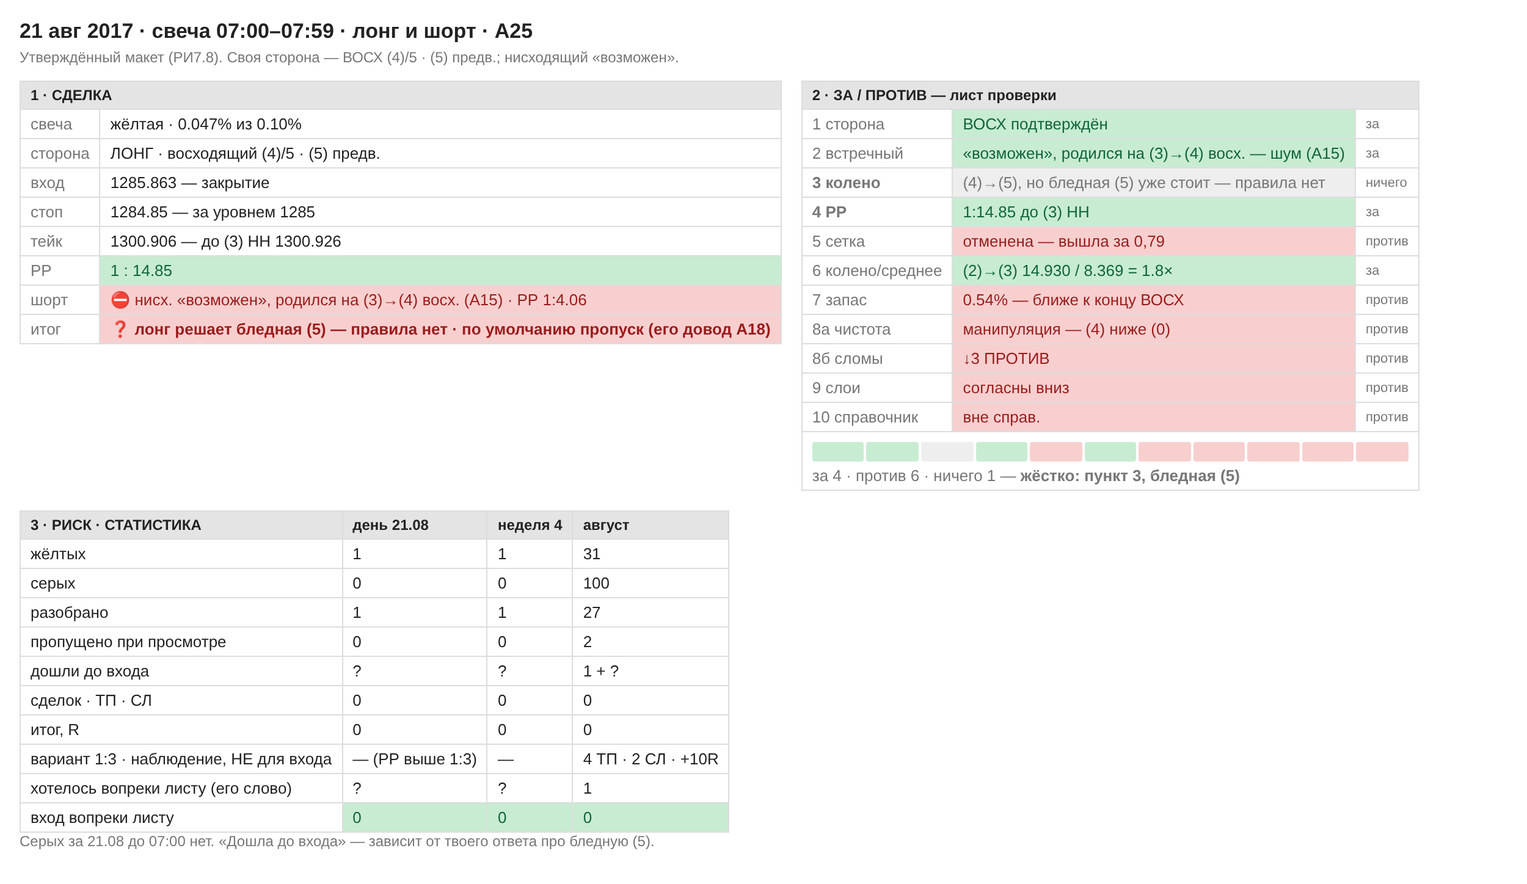
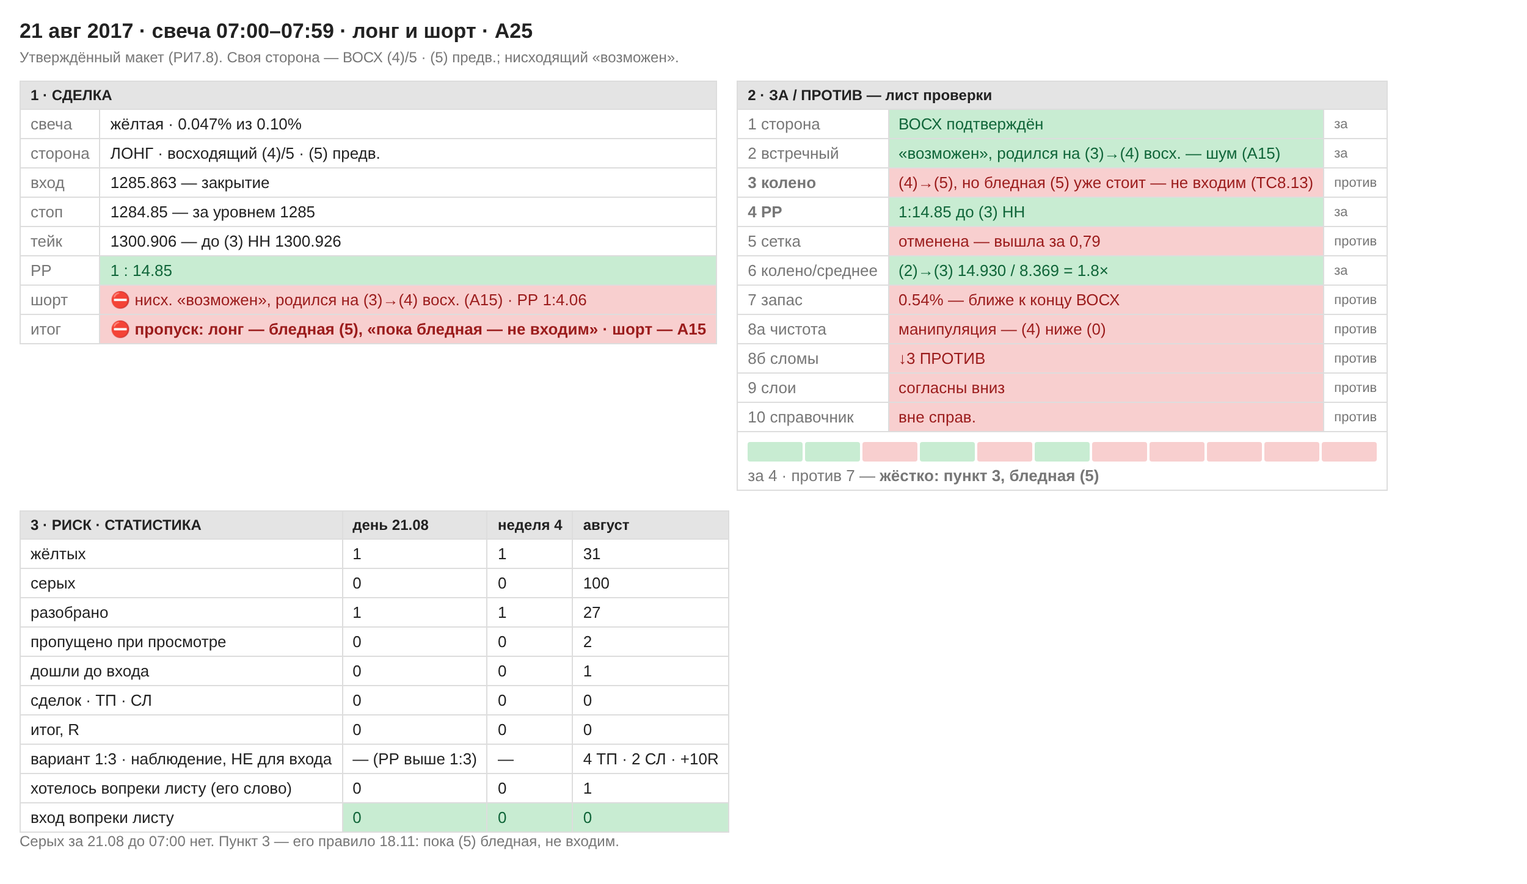
ТС8.13: пока (5) бледная — не входим, его слово; А25 пропуск, «хотелось» 0
Claude-Session: https://claude.ai/code/session_01TnuyYeu48W8E686G1zottP

Changed region(s): [[0.0936, 0.0932, 0.936, 0.5594], [0.156, 0.9323, 0.4368, 0.9634], [0.9048, 0.0932, 0.936, 0.1243]]

diff --git a/research/out/maket/2017-08-21_0700.html b/research/out/maket/2017-08-21_0700.html
@@ -6,4 +6,4 @@ table{border-collapse:collapse;min-width:360px}td,th{border:1px solid var(--ln);
 th{background:var(--h);font-size:12px}.blk td:first-child{color:var(--mut);white-space:nowrap}
 .g{background:var(--g);color:var(--gt)}.r{background:var(--r);color:var(--rt)}.n{background:var(--n);color:var(--mut)}
 .hard{font-weight:bold}.tag{font-size:11px;color:var(--mut)}
-.bar{display:flex;gap:2px;margin:4px 0}.bar span{flex:1;height:16px;border-radius:2px}</style></head><body><h1>21 авг 2017 · свеча 07:00–07:59 · лонг и шорт · А25</h1><p class="sub">Утверждённый макет (РИ7.8). Своя сторона — ВОСХ (4)/5 · (5) предв.; нисходящий «возможен».</p><div class="wrap"><table class="blk"><tr><th colspan="2">1 · СДЕЛКА</th></tr><tr><td>свеча</td><td class="">жёлтая · 0.047% из 0.10%</td></tr><tr><td>сторона</td><td class="">ЛОНГ · восходящий (4)/5 · (5) предв.</td></tr><tr><td>вход</td><td class="">1285.863 — закрытие</td></tr><tr><td>стоп</td><td class="">1284.85 — за уровнем 1285</td></tr><tr><td>тейк</td><td class="">1300.906 — до (3) HH 1300.926</td></tr><tr><td>РР</td><td class="g">1 : 14.85</td></tr><tr><td>шорт</td><td class="r">⛔ нисх. «возможен», родился на (3)→(4) восх. (А15) · РР 1:4.06</td></tr><tr><td>итог</td><td class="r hard">❓ лонг решает бледная (5) — правила нет · по умолчанию пропуск (его довод А18)</td></tr></table><table class="blk"><tr><th colspan="3">2 · ЗА / ПРОТИВ — лист проверки</th></tr><tr><td class="">1 сторона</td><td class="g">ВОСХ подтверждён</td><td class="tag">за</td></tr><tr><td class="">2 встречный</td><td class="g">«возможен», родился на (3)→(4) восх. — шум (А15)</td><td class="tag">за</td></tr><tr><td class="hard">3 колено</td><td class="n">(4)→(5), но бледная (5) уже стоит — правила нет</td><td class="tag">ничего</td></tr><tr><td class="hard">4 РР</td><td class="g">1:14.85 до (3) HH</td><td class="tag">за</td></tr><tr><td class="">5 сетка</td><td class="r">отменена — вышла за 0,79</td><td class="tag">против</td></tr><tr><td class="">6 колено/среднее</td><td class="g">(2)→(3) 14.930 / 8.369 = 1.8×</td><td class="tag">за</td></tr><tr><td class="">7 запас</td><td class="r">0.54% — ближе к концу ВОСХ</td><td class="tag">против</td></tr><tr><td class="">8а чистота</td><td class="r">манипуляция — (4) ниже (0)</td><td class="tag">против</td></tr><tr><td class="">8б сломы</td><td class="r">↓3 ПРОТИВ</td><td class="tag">против</td></tr><tr><td class="">9 слои</td><td class="r">согласны вниз</td><td class="tag">против</td></tr><tr><td class="">10 справочник</td><td class="r">вне справ.</td><td class="tag">против</td></tr><tr><td colspan="3"><div class="bar"><span class="g"></span><span class="g"></span><span class="n"></span><span class="g"></span><span class="r"></span><span class="g"></span><span class="r"></span><span class="r"></span><span class="r"></span><span class="r"></span><span class="r"></span></div>за 4 · против 6 · ничего 1 — <b>жёстко: пункт 3, бледная (5)</b></td></tr></table><table><tr><th>3 · РИСК · СТАТИСТИКА</th><th>день 21.08</th><th>неделя 4</th><th>август</th></tr><tr><td>жёлтых</td><td class="">1</td><td class="">1</td><td class="">31</td></tr><tr><td>серых</td><td class="">0</td><td class="">0</td><td class="">100</td></tr><tr><td>разобрано</td><td class="">1</td><td class="">1</td><td class="">27</td></tr><tr><td>пропущено при просмотре</td><td class="">0</td><td class="">0</td><td class="">2</td></tr><tr><td>дошли до входа</td><td class="">?</td><td class="">?</td><td class="">1 + ?</td></tr><tr><td>сделок · ТП · СЛ</td><td class="">0</td><td class="">0</td><td class="">0</td></tr><tr><td>итог, R</td><td class="">0</td><td class="">0</td><td class="">0</td></tr><tr><td>вариант 1:3 · наблюдение, НЕ для входа</td><td class="">— (РР выше 1:3)</td><td class="">—</td><td class="">4 ТП · 2 СЛ · +10R</td></tr><tr><td>хотелось вопреки листу (его слово)</td><td class="">?</td><td class="">?</td><td class="">1</td></tr><tr><td>вход вопреки листу</td><td class="g">0</td><td class="g">0</td><td class="g">0</td></tr></table></div><p class="sub">Серых за 21.08 до 07:00 нет. «Дошла до входа» — зависит от твоего ответа про бледную (5).</p></body></html>
+.bar{display:flex;gap:2px;margin:4px 0}.bar span{flex:1;height:16px;border-radius:2px}</style></head><body><h1>21 авг 2017 · свеча 07:00–07:59 · лонг и шорт · А25</h1><p class="sub">Утверждённый макет (РИ7.8). Своя сторона — ВОСХ (4)/5 · (5) предв.; нисходящий «возможен».</p><div class="wrap"><table class="blk"><tr><th colspan="2">1 · СДЕЛКА</th></tr><tr><td>свеча</td><td class="">жёлтая · 0.047% из 0.10%</td></tr><tr><td>сторона</td><td class="">ЛОНГ · восходящий (4)/5 · (5) предв.</td></tr><tr><td>вход</td><td class="">1285.863 — закрытие</td></tr><tr><td>стоп</td><td class="">1284.85 — за уровнем 1285</td></tr><tr><td>тейк</td><td class="">1300.906 — до (3) HH 1300.926</td></tr><tr><td>РР</td><td class="g">1 : 14.85</td></tr><tr><td>шорт</td><td class="r">⛔ нисх. «возможен», родился на (3)→(4) восх. (А15) · РР 1:4.06</td></tr><tr><td>итог</td><td class="r hard">⛔ пропуск: лонг — бледная (5), «пока бледная — не входим» · шорт — А15</td></tr></table><table class="blk"><tr><th colspan="3">2 · ЗА / ПРОТИВ — лист проверки</th></tr><tr><td class="">1 сторона</td><td class="g">ВОСХ подтверждён</td><td class="tag">за</td></tr><tr><td class="">2 встречный</td><td class="g">«возможен», родился на (3)→(4) восх. — шум (А15)</td><td class="tag">за</td></tr><tr><td class="hard">3 колено</td><td class="r">(4)→(5), но бледная (5) уже стоит — не входим (ТС8.13)</td><td class="tag">против</td></tr><tr><td class="hard">4 РР</td><td class="g">1:14.85 до (3) HH</td><td class="tag">за</td></tr><tr><td class="">5 сетка</td><td class="r">отменена — вышла за 0,79</td><td class="tag">против</td></tr><tr><td class="">6 колено/среднее</td><td class="g">(2)→(3) 14.930 / 8.369 = 1.8×</td><td class="tag">за</td></tr><tr><td class="">7 запас</td><td class="r">0.54% — ближе к концу ВОСХ</td><td class="tag">против</td></tr><tr><td class="">8а чистота</td><td class="r">манипуляция — (4) ниже (0)</td><td class="tag">против</td></tr><tr><td class="">8б сломы</td><td class="r">↓3 ПРОТИВ</td><td class="tag">против</td></tr><tr><td class="">9 слои</td><td class="r">согласны вниз</td><td class="tag">против</td></tr><tr><td class="">10 справочник</td><td class="r">вне справ.</td><td class="tag">против</td></tr><tr><td colspan="3"><div class="bar"><span class="g"></span><span class="g"></span><span class="r"></span><span class="g"></span><span class="r"></span><span class="g"></span><span class="r"></span><span class="r"></span><span class="r"></span><span class="r"></span><span class="r"></span></div>за 4 · против 7 — <b>жёстко: пункт 3, бледная (5)</b></td></tr></table><table><tr><th>3 · РИСК · СТАТИСТИКА</th><th>день 21.08</th><th>неделя 4</th><th>август</th></tr><tr><td>жёлтых</td><td class="">1</td><td class="">1</td><td class="">31</td></tr><tr><td>серых</td><td class="">0</td><td class="">0</td><td class="">100</td></tr><tr><td>разобрано</td><td class="">1</td><td class="">1</td><td class="">27</td></tr><tr><td>пропущено при просмотре</td><td class="">0</td><td class="">0</td><td class="">2</td></tr><tr><td>дошли до входа</td><td class="">0</td><td class="">0</td><td class="">1</td></tr><tr><td>сделок · ТП · СЛ</td><td class="">0</td><td class="">0</td><td class="">0</td></tr><tr><td>итог, R</td><td class="">0</td><td class="">0</td><td class="">0</td></tr><tr><td>вариант 1:3 · наблюдение, НЕ для входа</td><td class="">— (РР выше 1:3)</td><td class="">—</td><td class="">4 ТП · 2 СЛ · +10R</td></tr><tr><td>хотелось вопреки листу (его слово)</td><td class="">0</td><td class="">0</td><td class="">1</td></tr><tr><td>вход вопреки листу</td><td class="g">0</td><td class="g">0</td><td class="g">0</td></tr></table></div><p class="sub">Серых за 21.08 до 07:00 нет. Пункт 3 — его правило 18.11: пока (5) бледная, не входим.</p></body></html>

diff --git a/indicator/ТАБЛО-НА-СВЕЧЕ.md b/indicator/ТАБЛО-НА-СВЕЧЕ.md
@@ -37,7 +37,7 @@
 | 16 авг 07:00 | А22 | скрин | ВОСХ / **НИСХ** | (3) / **(0)** продолж. | ↑ чистый, ↓8 ПРОТИВ · ↓ чистый, ↓8 за | спорят | ↓ 0.04% | 3.023 / 6.839 | у ВОСХ колено мелкое — сетки нет | **шорт 1:3.08 ✅** | ⭐ **дошла до входа** · его решение — **пропуск** («в шорт не смог бы»); тянуло в лонг вопреки листу — остановил лист | шорт — **тейк** в 09:00 (упущено +3.08R) · лонг — **стоп** |
 | 17 авг 07:00 | А23 | скрин | **ВОСХ** / умер | **(5)** / — | ↑ манипуляция, ↑5 за, вне справ. | согласны (вверх) | 1.64% | 21.770 / 7.750 | ВОСХ `(4)→(5)`, 0.094 — между | лонг 1:3.34 | пропуск: счёт (5), сетка | лонг — **стоп** в 09:00, (5) уберёг 1R |
 | 18 авг 06:00 | А24 | скрин | **ВОСХ** / **НИСХ** | (2) / **(5)** | ↑ чистый, ↓2 ПРОТИВ · ↓ чистый, ↓2 за | согласны (вниз) | 0.21% (ближе к концу) | 8.208 / 7.450 (данные) | у НИСХ колено мелкое — сетки нет | лонг 1:1.71 · шорт 1:1.19 | пропуск: лонг — РР; шорт — (5), РР | лонг — тейк у вершины **взят** в 10:00 (и 1:3 тоже) |
-| 21 авг 07:00 | А25 | скрин | **ВОСХ** / возможен | (4)·**(5) предв.** / (1)·(2) предв. | ↑ манипуляция, ↓3 ПРОТИВ, вне справ. · ↓ чистый, ↓3 за | согласны (вниз) | 0.54% (ближе к концу) | 14.930 / 8.369 | ВОСХ `(2)→(3)`, отменена — вышла за 0,79 | **лонг 1:14.85** · шорт 1:4.06 | лонг — ❓ бледная (5), правила нет, по умолчанию пропуск; шорт — «возможен» на коррекции (А15) | — идёт |
+| 21 авг 07:00 | А25 | скрин | **ВОСХ** / возможен | (4)·**(5) предв.** / (1)·(2) предв. | ↑ манипуляция, ↓3 ПРОТИВ, вне справ. · ↓ чистый, ↓3 за | согласны (вниз) | 0.54% (ближе к концу) | 14.930 / 8.369 | ВОСХ `(2)→(3)`, отменена — вышла за 0,79 | **лонг 1:14.85** · шорт 1:4.06 | **пропуск**: лонг — бледная (5), его слово «пока бледная — не входим» (ТС8.13); шорт — «возможен» на коррекции (А15) | — идёт |
 
 ⚠ **8 авг 03:00 — табло на бар позади.** На закрытии свечи было уже
 **(2)** и **ВОСХ**; на графике он видел (1) и «возможен» — З77, починено в
@@ -269,7 +269,7 @@ v3.44 (на проверке).
 | 9 | слои согласны / спорят | `серия и уровни` | А6, А7, А19 |
 | 10 | справочник: в нём / вне | `посл-ть` | А7 |
 
-**Жёсткие — решают сами:** 0 свеча, 3 колено, 4 РР, 5 «между линиями»,
+**Жёсткие — решают сами:** 0 свеча, 3 колено (✅ **18.11, ТС8.13: бледная «(5) предв.» своей стороны = против, жёстко**), 4 РР, 5 «между линиями»,
 и **2, если «возможен» родился на коррекции основного** (А15). **Мягкие** —
 1, 6–10: доводы, голоса не считаются (ТС8.9).
 

diff --git a/indicator/КАК-ТОРГУЮ.md b/indicator/КАК-ТОРГУЮ.md
@@ -51,7 +51,7 @@
 | **А22** | 18.11.2026 | **16 августа 07:00** — шорт, скрин без слов | ⭐ **первая свеча, где все жёсткие пункты пройдены**: продолжение нисходящего (0), РР 1:3.08 · доводы 5:5 · решение его |
 | **А23** | 18.11.2026 | **17 августа 07:00** — лонг, скрин без слов | пропуск: восходящий на (5)/5 — «там сделок нет»; РР 1:3.34 при этом проходит |
 | **А24** | 18.11.2026 | **18 августа 06:00** — скрин без слов | пропуск обе стороны: лонг (2)→(3) — РР 1:1.71 до (1) 1289.462; шорт — нисходящий (5)/5 и РР 1:1.19 · В36: лонг 1:3, тейк 1291.15 |
-| **А25** | 18.11.2026 | **21 августа 07:00** — скрин без слов | лонг: РР 1:14.85 до (3) HH 1300.926, но бледная **(5) предв.** уже стоит — ❓ правила нет, по умолчанию пропуск · шорт: нисх. «возможен», родился на коррекции `(3)→(4)` восх. (А15) |
+| **А25** | 18.11.2026 | **21 августа 07:00** — скрин без слов | лонг: РР 1:14.85 до (3) HH 1300.926, но бледная **(5) предв.** уже стоит — ✅ **пропуск, его новое правило «пока бледная — не входим» (ТС8.13)** · шорт: нисх. «возможен», родился на коррекции `(3)→(4)` восх. (А15) |
 
 ---
 
@@ -3580,3 +3580,15 @@ HH 1300.926** (ТС8.10).
 
 **Макет:** `research/out/maket/2017-08-21_0700.png`. ❓ «Хотелось вопреки
 листу» — спрошено.
+
+**Ответ, 18.11.2026:**
+
+> «1. да, пока бледная — не входим так как показывает где потенциально
+> уже 5 счет а если перескочит мы этого не знаем и принимаем решение по
+> факту. 2. нет, желания не было»
+
+| | |
+|---|---|
+| пункт 3 | ✅ **НОВОЕ ПРАВИЛО — `ПРАВИЛА-ТРИГГЕР.md` ТС8.13:** пока (5) своей стороны бледная, не входим; перескочила — решаем по факту на следующей свече. В листе это пункт 3, жёстко |
+| вердикт | **пропуск** обе стороны. «Дошла до входа» — **нет**: жёсткий пункт 3 против |
+| «хотелось вопреки листу» | **0** |

diff --git a/indicator/ПРАВИЛА-ТРИГГЕР.md b/indicator/ПРАВИЛА-ТРИГГЕР.md
@@ -1216,6 +1216,22 @@ v3.30 умерла, перебрав на 88 токенов. Вылечили в
 
 Разбор — `КАК-ТОРГУЮ.md` **А12**.
 
+### ТС8.13 · ПОКА (5) БЛЕДНАЯ — НЕ ВХОДИМ. Его слово 18.11.2026
+
+> «да, пока бледная — не входим так как показывает где потенциально уже
+> 5 счет а если перескочит мы этого не знаем и принимаем решение по факту»
+
+| | |
+|---|---|
+| **правило** | если в счёте своей стороны стоит бледная **«(5) предв.»** (v3.44), сделки по этому тренду нет — как на сплошной (5), ТС8.12 |
+| **почему** | бледная показывает, где (5) **потенциально уже есть**. Устоит — колено `(4)→(5)` кончилось, «там сделок нет» |
+| **если перескочит** | цена ушла за бледную вершину, и (5) ещё не там — «этого мы не знаем», решение принимается **по факту**, на следующей свече (ТС8.11) |
+| **в листе** | пункт 3 «колено с учётом предв.» — жёсткий; бледная (5) на своей стороне = **против, жёстко** |
+| **история** | в А18 (11 авг 02:00) он назвал бледную (5) доводом против, но решил РР. Правилом стало в А25 (21 авг 07:00), где РР был 1:14.85 и решал именно этот пункт |
+| ❓ **не сказано** | бледные других номеров — «(3) предв.» и т.п. Его слово было про (5) |
+
+Разбор — `КАК-ТОРГУЮ.md` **А25**.
+
 ### ТС8.8 · ⛔ ЧЕГО ЭТОТ РАЗБОР НЕ ДАЁТ
 
 | | |

diff --git a/CLAUDE.md b/CLAUDE.md
@@ -535,6 +535,8 @@
   `(2)→(3)`, `(4)→(5)`, причём **`(2)→(3)` самый сильный**, остальные
   два «опасные, но тоже могут быть». **И зеркально** для нисходящего.
   **11.11.2026, А12, его словом: «последний счёт 5 — там нет сделок».**
+  **18.11.2026, А25: и пока (5) бледная «предв.» — тоже не входим**
+  (ТС8.13); перескочила — решение по факту.
   **12.11.2026, А15, его принцип:** «возможен» встречный, родившийся на
   коррекции `(1)→(2)` или `(3)→(4)` основного, — скорее шум; родившийся
   после (5) основного или в самом его конце — кандидат. Метка (1) у
